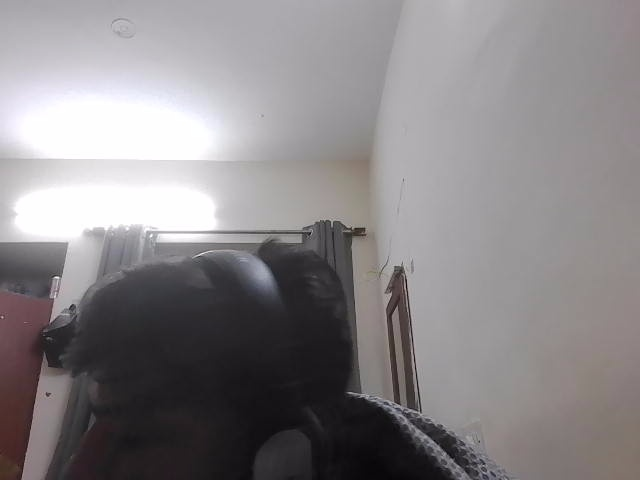
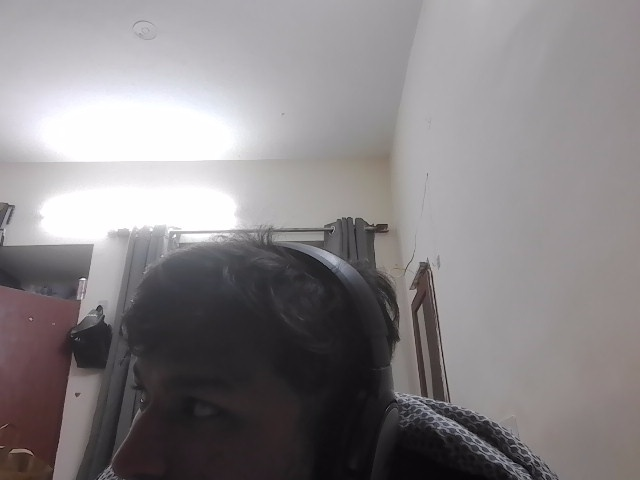
Fix Raspberry Pi Picamera2 Unicam/ISP device locking via singleton management

diff --git a/edge/sensors/camera_reader.py b/edge/sensors/camera_reader.py
@@ -1,12 +1,12 @@
 """
-CSI Camera Module Reader (Picamera2 / OpenCV)
+CSI Camera Module Reader (Picamera2 / OpenCV / Native libcamera CLI)
 
 Hardware Wiring:
-- CSI Ribbon Cable attached to Pi CSI Camera port.
+- CSI Ribbon Cable attached to Pi CSI Camera port (ov5647 / imx219 / imx708).
 
 Required Libraries on Raspberry Pi OS:
   sudo raspi-config  # Enable Camera under Interface Options
-  sudo apt-get install -y python3-picamera2  # Bookworm / Bullseye OS
+  sudo apt-get install -y python3-picamera2 libgpiod2 libraspberrypi-bin
   # OR
   pip install opencv-python
 """
@@ -38,6 +38,11 @@ except ImportError:
     HAS_OPENCV = False
 
 
+# Process-wide hardware handle cache to prevent duplicate device locking on Unicam/ISP
+_GLOBAL_PICAM2_INSTANCE: Optional[Any] = None
+_GLOBAL_OPENCV_CAP: Optional[Any] = None
+
+
 class CameraReader:
     """Captures real camera frames using Picamera2, OpenCV, or the native libcamera/rpicam CLI."""
 
@@ -47,6 +52,8 @@ class CameraReader:
         output_dir: str = "data/camera_captures",
         save_to_disk: bool = True
     ):
+        global _GLOBAL_PICAM2_INSTANCE, _GLOBAL_OPENCV_CAP
+
         self.resolution = resolution
         self.output_dir = output_dir
         self.save_to_disk = save_to_disk
@@ -62,29 +69,41 @@ class CameraReader:
 
         self._detect_cli_camera()
 
-
-
-
+        # 1. Reuse existing active Picamera2 or initialize a new singleton
         if HAS_PICAM2:
-            try:
-                self.picam2 = Picamera2()
-                config = self.picam2.create_preview_configuration(main={"size": resolution})
-                self.picam2.configure(config)
-                self.picam2.start()
-                print("[CameraReader] Picamera2 initialized successfully.")
-            except Exception as e:
-                print(f"[CameraReader Warning] Picamera2 init failed: {e}")
-                self.picam2 = None
+            if _GLOBAL_PICAM2_INSTANCE is not None:
+                self.picam2 = _GLOBAL_PICAM2_INSTANCE
+            else:
+                try:
+                    p2 = Picamera2()
+                    config = p2.create_preview_configuration(main={"size": resolution})
+                    p2.configure(config)
+                    p2.start()
+                    _GLOBAL_PICAM2_INSTANCE = p2
+                    self.picam2 = p2
+                    print("[CameraReader] Picamera2 initialized successfully.")
+                except Exception as e:
+                    print(f"[CameraReader Warning] Picamera2 init failed: {e}")
+                    self.picam2 = None
 
+        # 2. Reuse or initialize OpenCV VideoCapture fallback
         if not self.picam2 and HAS_OPENCV:
-            try:
-                self.cap = cv2.VideoCapture(0)
-                self.cap.set(cv2.CAP_PROP_FRAME_WIDTH, resolution[0])
-                self.cap.set(cv2.CAP_PROP_FRAME_HEIGHT, resolution[1])
-                print("[CameraReader] OpenCV VideoCapture initialized successfully.")
-            except Exception as e:
-                print(f"[CameraReader Warning] OpenCV VideoCapture init failed: {e}")
-                self.cap = None
+            if _GLOBAL_OPENCV_CAP is not None and _GLOBAL_OPENCV_CAP.isOpened():
+                self.cap = _GLOBAL_OPENCV_CAP
+            else:
+                try:
+                    self.cap = cv2.VideoCapture(0)
+                    if self.cap.isOpened():
+                        self.cap.set(cv2.CAP_PROP_FRAME_WIDTH, resolution[0])
+                        self.cap.set(cv2.CAP_PROP_FRAME_HEIGHT, resolution[1])
+                        _GLOBAL_OPENCV_CAP = self.cap
+                        print("[CameraReader] OpenCV VideoCapture initialized successfully.")
+                    else:
+                        self.cap.release()
+                        self.cap = None
+                except Exception as e:
+                    print(f"[CameraReader Warning] OpenCV VideoCapture init failed: {e}")
+                    self.cap = None
 
     def _detect_cli_camera(self):
         """Detect the Raspberry Pi libcamera/rpicam command-line tools installed on the OS."""
@@ -121,7 +140,10 @@ class CameraReader:
                 return f.read()
         finally:
             if os.path.exists(temp_path):
-                os.remove(temp_path)
+                try:
+                    os.remove(temp_path)
+                except Exception:
+                    pass
 
     def capture_frame(self) -> Dict[str, Any]:
         """
@@ -130,6 +152,7 @@ class CameraReader:
         self.frame_counter += 1
         image_bytes = b""
 
+        # 1. Picamera2 direct memory capture
         if self.picam2:
             try:
                 frame_array = self.picam2.capture_array()
@@ -141,17 +164,19 @@ class CameraReader:
             except Exception as e:
                 print(f"[Camera Error] Picamera2 capture failed: {e}")
 
+        # 2. OpenCV VideoCapture stream
         elif self.cap and self.cap.isOpened():
             ret, frame = self.cap.read()
             if ret and HAS_OPENCV:
                 _, buffer = cv2.imencode('.jpg', frame)
                 image_bytes = buffer.tobytes()
 
+        # 3. CLI libcamera/rpicam fallback (only when Picamera2 not active)
         elif self.cli_camera_available:
             try:
                 image_bytes = self._read_cli_image_bytes(self.resolution[0], self.resolution[1])
-            except Exception as e:
-                print(f"[Camera Error] Native CLI capture failed: {e}")
+            except Exception:
+                pass
 
         if not image_bytes:
             image_bytes = f"FRAME_{self.frame_counter}_BYTES_{time.time()}".encode("utf-8")
@@ -261,18 +286,26 @@ class CameraReader:
             "size_bytes": len(video_bytes)
         }
 
-    def close(self):
+    def close(self, force: bool = False):
         """Releases camera hardware resources."""
-        if self.picam2:
-            try:
-                self.picam2.stop()
-            except Exception:
-                pass
-        if self.cap:
-            try:
-                self.cap.release()
-            except Exception:
-                pass
+        global _GLOBAL_PICAM2_INSTANCE, _GLOBAL_OPENCV_CAP
+        if force:
+            if _GLOBAL_PICAM2_INSTANCE:
+                try:
+                    _GLOBAL_PICAM2_INSTANCE.stop()
+                    _GLOBAL_PICAM2_INSTANCE.close()
+                except Exception:
+                    pass
+                _GLOBAL_PICAM2_INSTANCE = None
+                self.picam2 = None
+
+            if _GLOBAL_OPENCV_CAP:
+                try:
+                    _GLOBAL_OPENCV_CAP.release()
+                except Exception:
+                    pass
+                _GLOBAL_OPENCV_CAP = None
+                self.cap = None
 
 
 # Standalone Smoke-Test Script when run directly on Raspberry Pi
@@ -296,8 +329,5 @@ if __name__ == "__main__":
     print(f"  Saved Folder:   {camera.output_dir}/")
     print(f"  Overwritten At: {frame_data['saved_path']}")
 
-    camera.close()
+    camera.close(force=True)
     print("=== Capture Complete ===")
-
-
-
